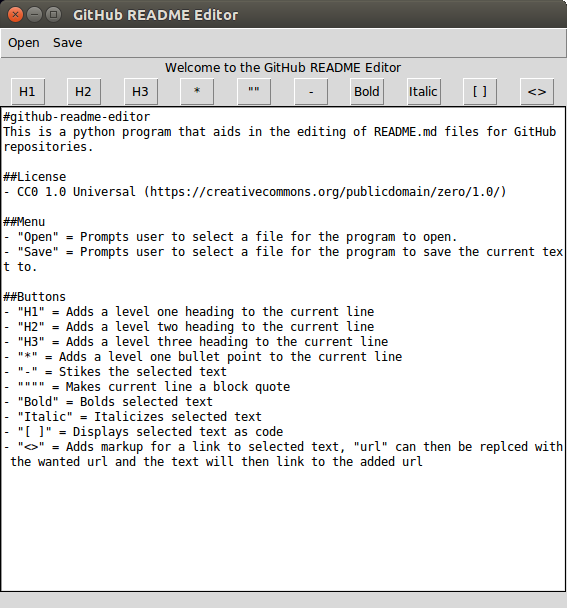
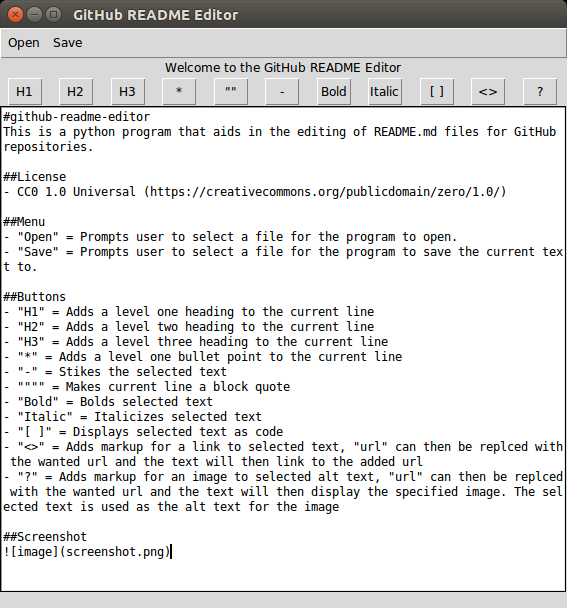
added Image Button
added image button to main program, updated "README.md" and screenshot,
also fixed screeshot usage in README

diff --git a/GitHub README Editor.py b/GitHub README Editor.py
@@ -91,6 +91,12 @@ def link_text():
     print("Link")
     text_box.insert(SEL_FIRST, "[")
     text_box.insert(SEL_LAST, "](url)")
+    
+#Define Image function
+def image():
+    print("Image")
+    text_box.insert(SEL_FIRST, "![")
+    text_box.insert(SEL_LAST, "](url)")
 
 #Generate GUI
 theGUI = Tk()
@@ -128,6 +134,8 @@ buttons = buttons + 1
 button_code_text = Button(theGUI, text = "[ ]", command = code_text, height = 1, width = 1).grid(row = 1, column = buttons)
 buttons = buttons + 1
 button_link_text = Button(theGUI, text = "<>", command = link_text, height = 1, width = 1).grid(row = 1, column = buttons)
+buttons = buttons + 1
+button_image = Button(theGUI, text = "?", command = image, height = 1, width = 1).grid(row = 1, column = buttons)
 buttons = buttons + 1
 
 #Setup top area

diff --git a/README.md b/README.md
@@ -19,6 +19,7 @@ This is a python program that aids in the editing of README.md files for GitHub 
 - "Italic" = Italicizes selected text
 - "[ ]" = Displays selected text as code
 - "<>" = Adds markup for a link to selected text, "url" can then be replced with the wanted url and the text will then link to the added url
+- "?" = Adds markup for an image to selected alt text, "url" can then be replced with the wanted url and the text will then display the specified image. The selected text is used as the alt text for the image
 
 ##Screenshot
-[image](screenshot.png)
+![image](screenshot.png)
